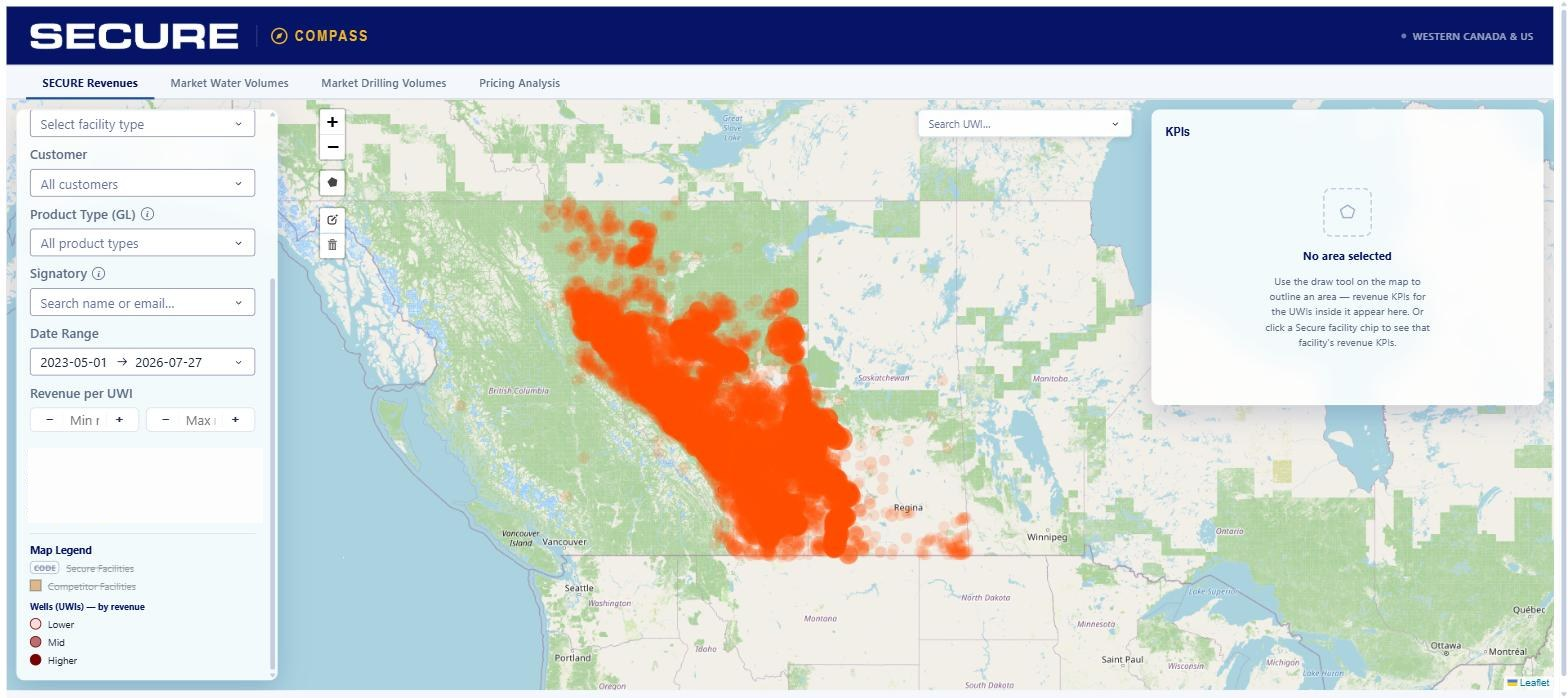
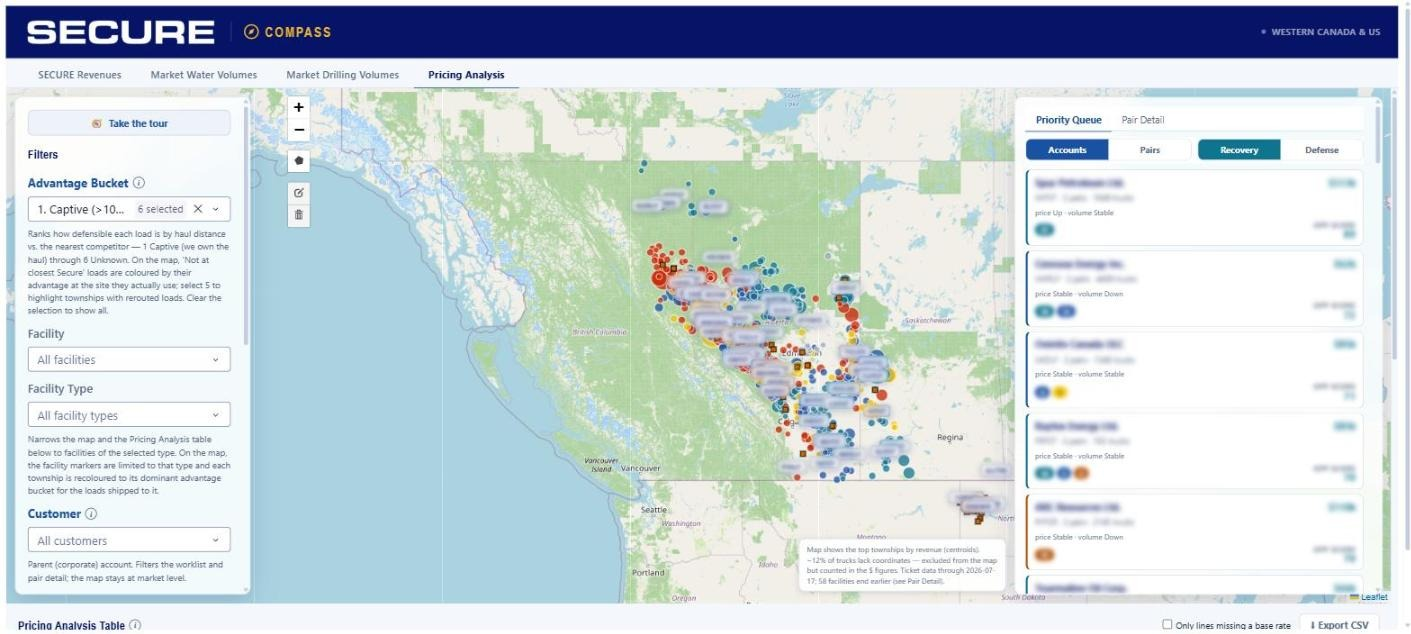
All three work screenshots on the light in-page blur; outcomes reframed for org-wide rollout
- COMPASS Pricing Analysis and PRISM network map recaptured with the stylesheet
  blur keyed to each app's own class names: customer names, dollar values,
  facility names/codes, volumes and alert feed blurred; maps, filters, charts,
  utilization rings and tour copy left crisp
- utilization percentages kept legible (no denominator, and they carry the visual)
- outcome lines now say org-wide rollout instead of implying counts we don't have

diff --git a/index.html b/index.html
@@ -600,7 +600,7 @@ html{scrollbar-color:var(--signal) var(--black);scrollbar-width:thin}
       <li>Cut a 77-second table render to under one second and compressed multi-MB payloads roughly 10&#215;.</li>
     </ul>
     <h4>Stack</h4><p class="cs-stack">Python &middot; Dash &middot; Leaflet &middot; Plotly &middot; pandas &middot; Shapely &middot; Databricks Apps &middot; Databricks SQL &middot; Unity Catalog &middot; GitHub Actions</p>
-    <h4>Outcome</h4><p class="cs-metric">In production with the commercial team across Western Canada, now expanding into US regions.</p>
+    <h4>Outcome</h4><p class="cs-metric">In production with the commercial team across Western Canada and rolling out org-wide, with US regions coming online.</p>
     <h4>One lesson</h4><p>A score you can't explain is worse than a simple one you can.</p>
   </dialog>
   <dialog class="cs" id="cs2" aria-label="Case study: Operations Command Center">
@@ -617,7 +617,7 @@ html{scrollbar-color:var(--signal) var(--black);scrollbar-width:thin}
       <li>Made every data source fail-safe: a broken query dims one section with diagnostics instead of blanking the page.</li>
     </ul>
     <h4>Stack</h4><p class="cs-stack">Python &middot; Dash &middot; Plotly &middot; Leaflet &middot; Databricks Apps &middot; Databricks SQL &middot; Unity Catalog &middot; OpenTelemetry &middot; GitHub Actions</p>
-    <h4>Outcome</h4><p class="cs-metric">In production with operations leadership across the facility network.</p>
+    <h4>Outcome</h4><p class="cs-metric">In production with operations leadership and rolling out org-wide across the facility network.</p>
     <h4>One lesson</h4><p>Encode a metric's limits into the UI itself — it earns more trust than one that just looks precise.</p>
   </dialog>
   <dialog class="cs" id="cs3" aria-label="Case study: Capacity Booking Platform">
@@ -635,7 +635,7 @@ html{scrollbar-color:var(--signal) var(--black);scrollbar-width:thin}
       <li>Shipped as infrastructure-as-code with isolated dev/UAT/prod, an append-only audit trail and ~300 automated tests.</li>
     </ul>
     <h4>Stack</h4><p class="cs-stack">Python &middot; Flask &middot; Databricks Apps &middot; Lakebase (Postgres) &middot; Databricks SQL &middot; Asset Bundles &middot; GitHub Actions &middot; pytest</p>
-    <h4>Outcome</h4><p class="cs-metric">Piloting across a disposal network — one live source of truth for who's bringing what, where, when.</p>
+    <h4>Outcome</h4><p class="cs-metric">Live in pilot and heading for org-wide rollout — one source of truth for who's bringing what, where and when.</p>
     <h4>One lesson</h4><p>When every conventional path is blocked, the winning design is the one that needs zero new permissions.</p>
   </dialog>
 </main>
